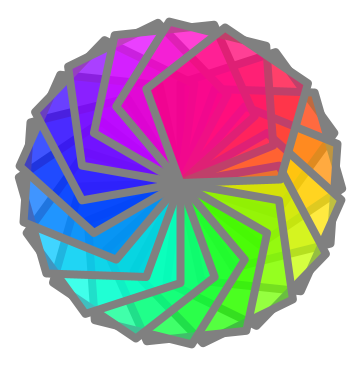
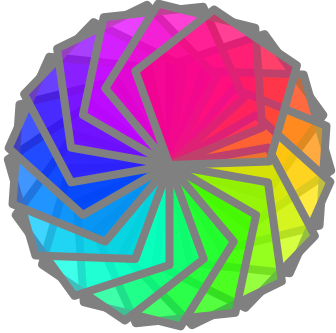
Add style transfer example to docs.

diff --git a/doc/style-transfer.md b/doc/style-transfer.md
@@ -1,0 +1,51 @@
+### Style Transfer
+
+Pre-requisites for running the example:
+* [Download and install](https://www.kogics.net/kojo-download) Kojo
+* Extract the kojo-ai libk directory for your platform under `~/kojo/lite` as explained in the [release notes](https://github.com/litan/kojo-ai-2/releases/tag/v0.2) for v0.2
+* Download and extract the [saved model](https://github.com/litan/kojo-ai-2/releases/download/v0.1/savedmodel.zip) for this example.
+
+
+
+After that, just run the example code below in Kojo.
+
+### Original Drawing, Style Image, and Final Output
+
+![style-transfer-images.png](style-transfer-images.png)
+
+### Code
+
+```
+// #include /nst.kojo
+
+cleari()
+clearOutput()
+setBackground(white)
+
+val alpha = 0.8f
+// you need to change the savedModel location based on where you downloaded the model
+val savedModel = "/home/lalit/work/arbitrary-style-transfer/savedmodel"
+
+val fltr1 = new NeuralStyleFilter(savedModel, "/home/lalit/work/kojo-ai-2/images/style/woman_with_hat_matisse_cropped.jpg", alpha)
+val fltr2 = new NeuralStyleFilter(savedModel, "/home/lalit/work/kojo-ai-2/images/style/sketch_cropped.png", alpha)
+
+val drawing = Picture {
+    setPenColor(cm.gray)
+    var clr = cm.rgba(255, 0, 0, 127) // start with a semi transparent red color
+    setPenThickness(8)
+    repeat(18) {
+        setFillColor(clr)
+        repeat(5) {
+            forward(100)
+            right(72)
+        }
+        clr = clr.spin(360 / 18) // change color hue
+        right(360 / 18)
+    }
+}
+
+val pic = effect(fltr1) -> drawing
+//val pic = effect(fltr2) * effect(fltr1) -> drawing
+
+draw(pic)
+```
